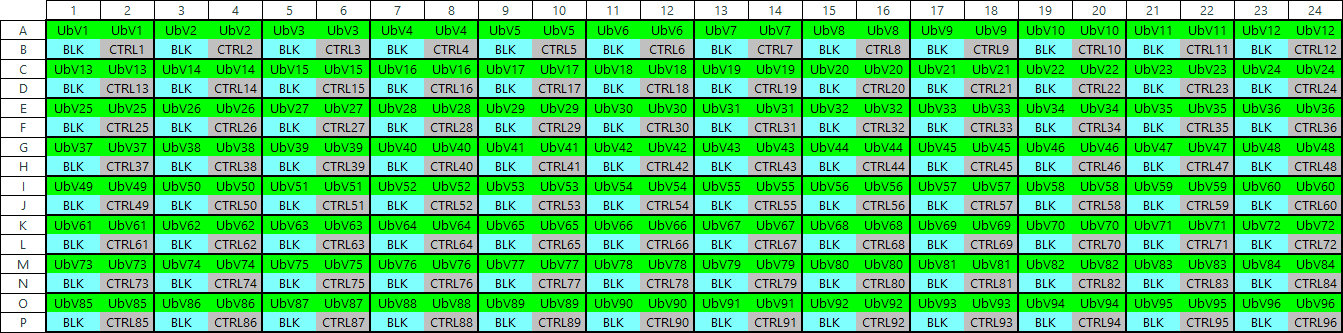
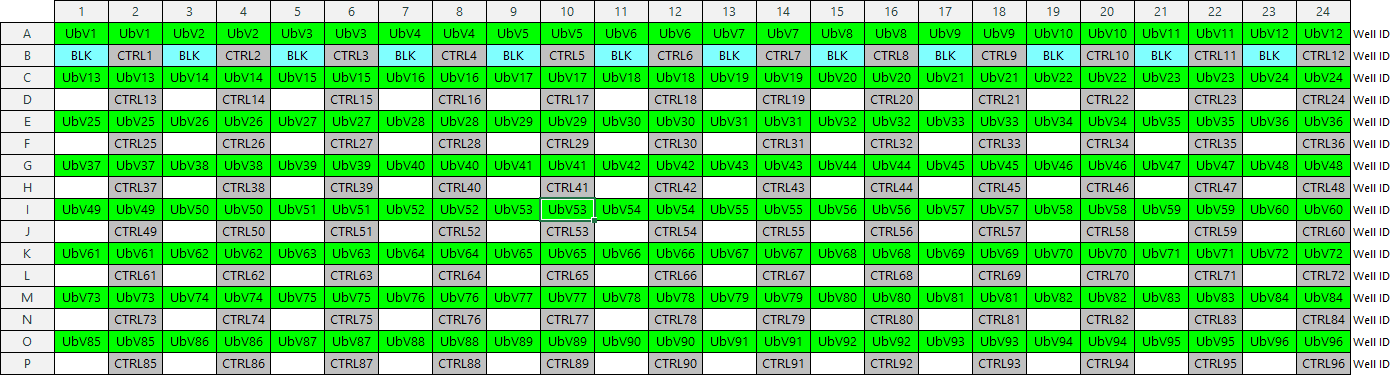
Update Binding Analysis GUI for use with new plate layout
Updated GUI images
Fixed formatting in Conservation Analysis scripts
Fixed issue in output conditional formatting in Binding Analysis Programs

diff --git a/2_bindingAnalysis/gui/source/gui_bindingAnalysis.py b/2_bindingAnalysis/gui/source/gui_bindingAnalysis.py
@@ -34,12 +34,13 @@ Sg.theme('DarkGrey13')
 # Create window layout.
 infoLayout = [
     # Title and introduction.
-    [Sg.Text('\nPhage Display - Binding Analysis',
+    [Sg.Text('\nPhage Display - Binding Analysis\n',
              text_color='#8294cc',
              font=('Segoe UI Semibold', 16)
              )
      ],
     [Sg.Text('''        Analyses ELISA binding data along with corresponding sequence data.
+    
         Calculates the average of duplicate absorbances for each protein,
         calculates the binder:control absorbance ratio, and normalizes them
         against the average of the blanks. ELISA data that don't have
@@ -50,7 +51,7 @@ infoLayout = [
      ],
 
     # 'Plate layout' button.
-    [Sg.Text('        Click the button below to see the required plate layout for this program.\n',
+    [Sg.Text('        To use this program, ELISA data must correspond to the following plate layout:\n',
              text_color='#8294cc',
              font=('Segoe UI', 12)
              )
@@ -177,29 +178,8 @@ inFileLayout = [
 
 settingsLayout = [
 
-    # Blank well ID input prompt.
-    [Sg.Text('1. Enter well IDs that contain ELISA blanks/negative controls:',
-             text_color='white',
-             font=('Segoe UI Bold', 10)
-             )
-     ],
-    [Sg.Input(key='-BLANK_INPUT-',
-              size=20,
-              pad=(25, 0),
-              font=('Segoe UI', 10)
-              )
-     ],
-    [Sg.Text('''    * Not case-sensitive.
-    * Blank wells not associated with any absorbance value will be ignored.
-    * For multiple wells, use any kind of separator between them.
-      E.g. p22,p23,p24    or    P22-P23-P24\n''',
-             text_color='#bfbfbf',
-             font=('Segoe UI', 10)
-             )
-     ],
-
     # Emission absorbance input prompt.
-    [Sg.Text('2. Enter the wavelength of the emission peak (nm):',
+    [Sg.Text('5. Enter the wavelength of the emission peak (nm):',
              text_color='white',
              font=('Segoe UI Bold', 10)
              )
@@ -226,6 +206,7 @@ settingsLayout = [
      ]
 ]
 
+# TODO: Possibly remove tab layout.
 # Create tab layout.
 tabGroup = [
     [Sg.TabGroup(
@@ -254,7 +235,7 @@ tabGroup = [
     ]
 ]
 
-# Set up window behaviour..
+# Set up window behaviour.
 window = Sg.Window('Phage Display - Binding Analysis',
                    tabGroup,
                    alpha_channel=0.95,
@@ -479,18 +460,11 @@ else:
     ##################
 
     # Retrieve blank wells and average.
-    blankCells = [dataCellsClean.loc['B'][value] for value in range(0, 23, 2)] + \
-                 [dataCellsClean.loc['D'][value] for value in range(0, 23, 2)] + \
-                 [dataCellsClean.loc['F'][value] for value in range(0, 23, 2)] + \
-                 [dataCellsClean.loc['H'][value] for value in range(0, 23, 2)] + \
-                 [dataCellsClean.loc['J'][value] for value in range(0, 23, 2)] + \
-                 [dataCellsClean.loc['L'][value] for value in range(0, 23, 2)] + \
-                 [dataCellsClean.loc['N'][value] for value in range(0, 23, 2)] + \
-                 [dataCellsClean.loc['P'][value] for value in range(0, 23, 2)]
+    blankCells = [dataCellsClean.loc['B'][value] for value in range(0, 23, 2)]
     # Remove values that contain no data in the excel cell.
     blankValues = [absorbance for absorbance in blankCells if not (pandas.isna(absorbance))]
     # Average blanks.
-    blankAve = statistics.mean(blankCells)
+    blankAve = statistics.mean(blankValues)
     logging.info('Blank absorbances retrieved from raw data file.')
     logging.info('Blank values averaged.')
 
@@ -1690,31 +1664,31 @@ else:
                                    'max_color': '#3D85C6'
                                    }
                                   )
-    worksheet3.conditional_format(1, ntAlignLen + 1, len(aaShortNameList) + 1, ntAlignLen + 2,
+    worksheet3.conditional_format(1, ntAlignLen + 1, len(ntShortNameList) + 1, ntAlignLen + 2,
                                   {'type': '2_color_scale',
                                    'min_color': '#FFFFFF',
                                    'max_color': '#3D85C6'
                                    }
                                   )
-    worksheet3.conditional_format(1, ntAlignLen + 3, len(aaShortNameList) + 1, ntAlignLen + 4,
+    worksheet3.conditional_format(1, ntAlignLen + 3, len(ntShortNameList) + 1, ntAlignLen + 4,
                                   {'type': '2_color_scale',
                                    'min_color': '#FFFFFF',
                                    'max_color': '#3D85C6'
                                    }
                                   )
-    worksheet3.conditional_format(1, ntAlignLen + 5, len(aaShortNameList) + 1, ntAlignLen + 5,
+    worksheet3.conditional_format(1, ntAlignLen + 5, len(ntShortNameList) + 1, ntAlignLen + 5,
                                   {'type': '2_color_scale',
                                    'min_color': '#FFFFFF',
                                    'max_color': '#3D85C6'
                                    }
                                   )
-    worksheet3.conditional_format(1, ntAlignLen + 2, len(aaUnique) + 1, ntAlignLen + 7,
+    worksheet3.conditional_format(1, ntAlignLen + 2, len(ntUnique) + 1, ntAlignLen + 7,
                                   {'type': '2_color_scale',
                                    'min_color': '#FFFFFF',
                                    'max_color': '#3D85C6'
                                    }
                                   )
-    worksheet4.conditional_format(1, ntAlignLen + 2, len(aaUnique) + 1, ntAlignLen + 7,
+    worksheet4.conditional_format(1, ntAlignLen + 2, len(ntUnique) + 1, ntAlignLen + 7,
                                   {'type': '2_color_scale',
                                    'min_color': '#FFFFFF',
                                    'max_color': '#3D85C6'

diff --git a/2_bindingAnalysis/terminal/terminal_bindingAnalysis.py b/2_bindingAnalysis/terminal/terminal_bindingAnalysis.py
@@ -146,18 +146,11 @@ greenprint('''\nData retrieved from raw ELISA file.''')
 ##################
 
 # Retrieve blank wells and average.
-blankCells = [dataCellsClean.loc['B'][value] for value in range(0, 23, 2)] + \
-             [dataCellsClean.loc['D'][value] for value in range(0, 23, 2)] + \
-             [dataCellsClean.loc['F'][value] for value in range(0, 23, 2)] + \
-             [dataCellsClean.loc['H'][value] for value in range(0, 23, 2)] + \
-             [dataCellsClean.loc['J'][value] for value in range(0, 23, 2)] + \
-             [dataCellsClean.loc['L'][value] for value in range(0, 23, 2)] + \
-             [dataCellsClean.loc['N'][value] for value in range(0, 23, 2)] + \
-             [dataCellsClean.loc['P'][value] for value in range(0, 23, 2)]
+blankCells = [dataCellsClean.loc['B'][value] for value in range(0, 23, 2)]
 # Remove values that contain no data in the excel cell.
 blankValues = [absorbance for absorbance in blankCells if not (pandas.isna(absorbance))]
 # Average blanks.
-blankAve = statistics.mean(blankCells)
+blankAve = statistics.mean(blankValues)
 logging.info('Blank absorbances retrieved from raw data file.')
 logging.info('Blank values averaged.')
 
@@ -1437,31 +1430,31 @@ worksheet2.conditional_format(1, aaAlignLen + 2, len(aaUnique) + 1, aaAlignLen +
                                'max_color': '#3D85C6'
                                }
                               )
-worksheet3.conditional_format(1, ntAlignLen + 1, len(aaShortNameList) + 1, ntAlignLen + 2,
+worksheet3.conditional_format(1, ntAlignLen + 1, len(ntShortNameList) + 1, ntAlignLen + 2,
                               {'type': '2_color_scale',
                                'min_color': '#FFFFFF',
                                'max_color': '#3D85C6'
                                }
                               )
-worksheet3.conditional_format(1, ntAlignLen + 3, len(aaShortNameList) + 1, ntAlignLen + 4,
+worksheet3.conditional_format(1, ntAlignLen + 3, len(ntShortNameList) + 1, ntAlignLen + 4,
                               {'type': '2_color_scale',
                                'min_color': '#FFFFFF',
                                'max_color': '#3D85C6'
                                }
                               )
-worksheet3.conditional_format(1, ntAlignLen + 5, len(aaShortNameList) + 1, ntAlignLen + 5,
+worksheet3.conditional_format(1, ntAlignLen + 5, len(ntShortNameList) + 1, ntAlignLen + 5,
                               {'type': '2_color_scale',
                                'min_color': '#FFFFFF',
                                'max_color': '#3D85C6'
                                }
                               )
-worksheet3.conditional_format(1, ntAlignLen + 2, len(aaUnique) + 1, ntAlignLen + 7,
+worksheet3.conditional_format(1, ntAlignLen + 2, len(ntUnique) + 1, ntAlignLen + 7,
                               {'type': '2_color_scale',
                                'min_color': '#FFFFFF',
                                'max_color': '#3D85C6'
                                }
                               )
-worksheet4.conditional_format(1, ntAlignLen + 2, len(aaUnique) + 1, ntAlignLen + 7,
+worksheet4.conditional_format(1, ntAlignLen + 2, len(ntUnique) + 1, ntAlignLen + 7,
                               {'type': '2_color_scale',
                                'min_color': '#FFFFFF',
                                'max_color': '#3D85C6'

diff --git a/3_conservationAnalysis/terminal/terminal_conservationAnalysis.py b/3_conservationAnalysis/terminal/terminal_conservationAnalysis.py
@@ -125,8 +125,8 @@ if inputFormat == '1':
 elif inputFormat == '2':
     # Select amino acid alignment file. User prompt.
     cyanprint('''\nEnter amino acid alignment file name:
-    * Must be in fasta format.
-    * Include the file extension in the name.'''
+* Must be in fasta format.
+* Include the file extension in the name.'''
               )
     while True:
         inFileName = input()
@@ -239,8 +239,8 @@ elif inputFormat == '2':
     uniqueDict = dict(unique)
     # Create ordered list of wells.
     orderedSeq = []
-    for key in uniqueDict.keys():
-        orderedSeq.append(key)
+    for seq in uniqueDict.keys():
+        orderedSeq.append(seq)
     aaDict = dict(zip(wellList,
                       aaList)
                   )

diff --git a/3_conservationAnalysis/gui/source/gui_conservationAnalysis.py b/3_conservationAnalysis/gui/source/gui_conservationAnalysis.py
@@ -445,8 +445,8 @@ else:
         uniqueDict = dict(unique)
         # Create ordered list of wells.
         orderedSeq = []
-        for key in uniqueDict.keys():
-            orderedSeq.append(key)
+        for seq in uniqueDict.keys():
+            orderedSeq.append(seq)
         aaDict = dict(zip(wellList,
                           aaList)
                       )
